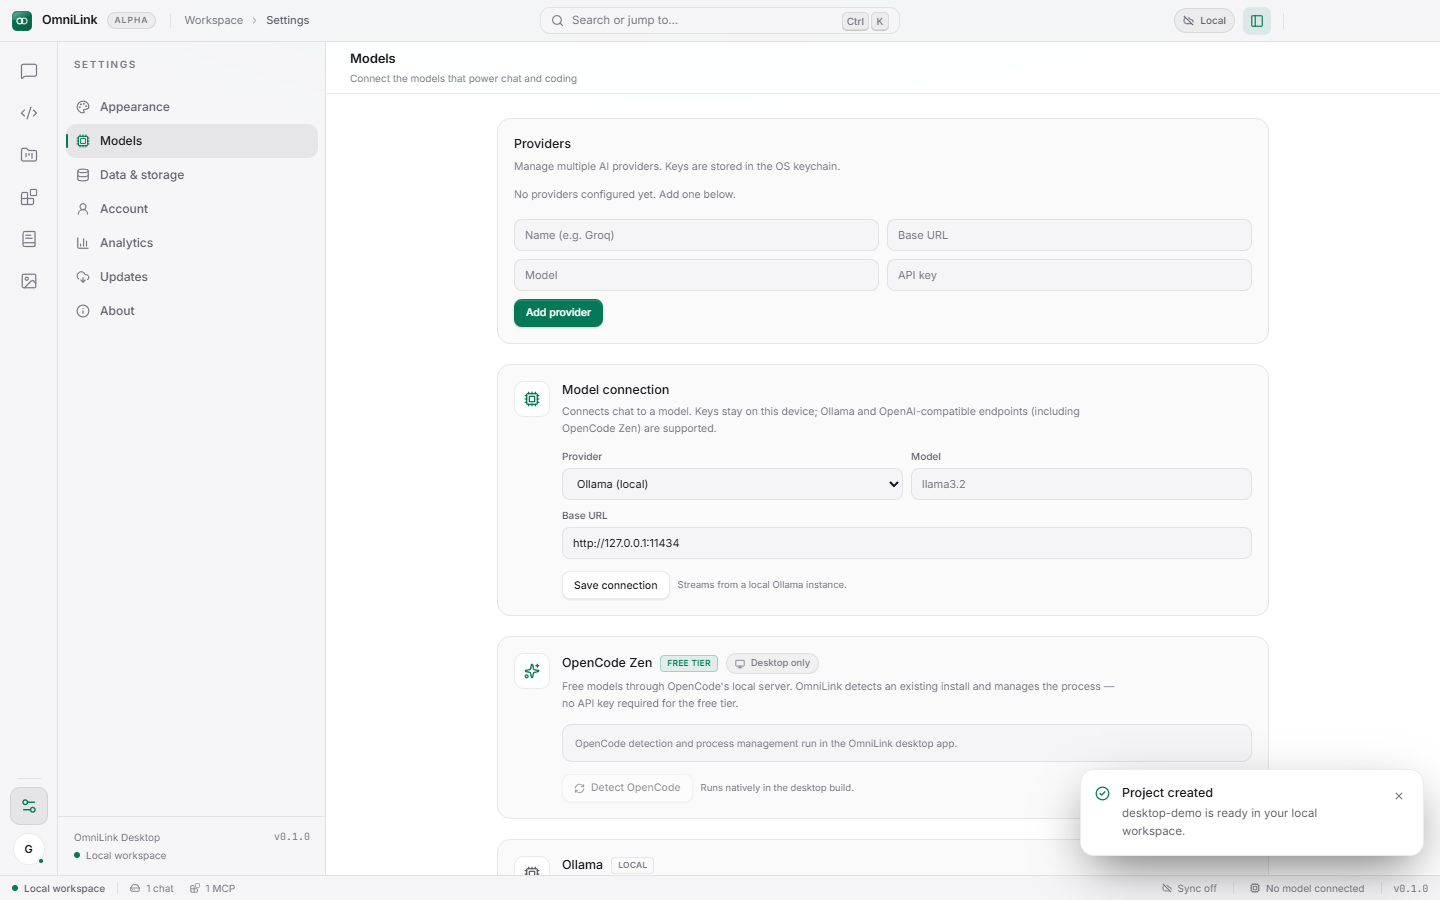
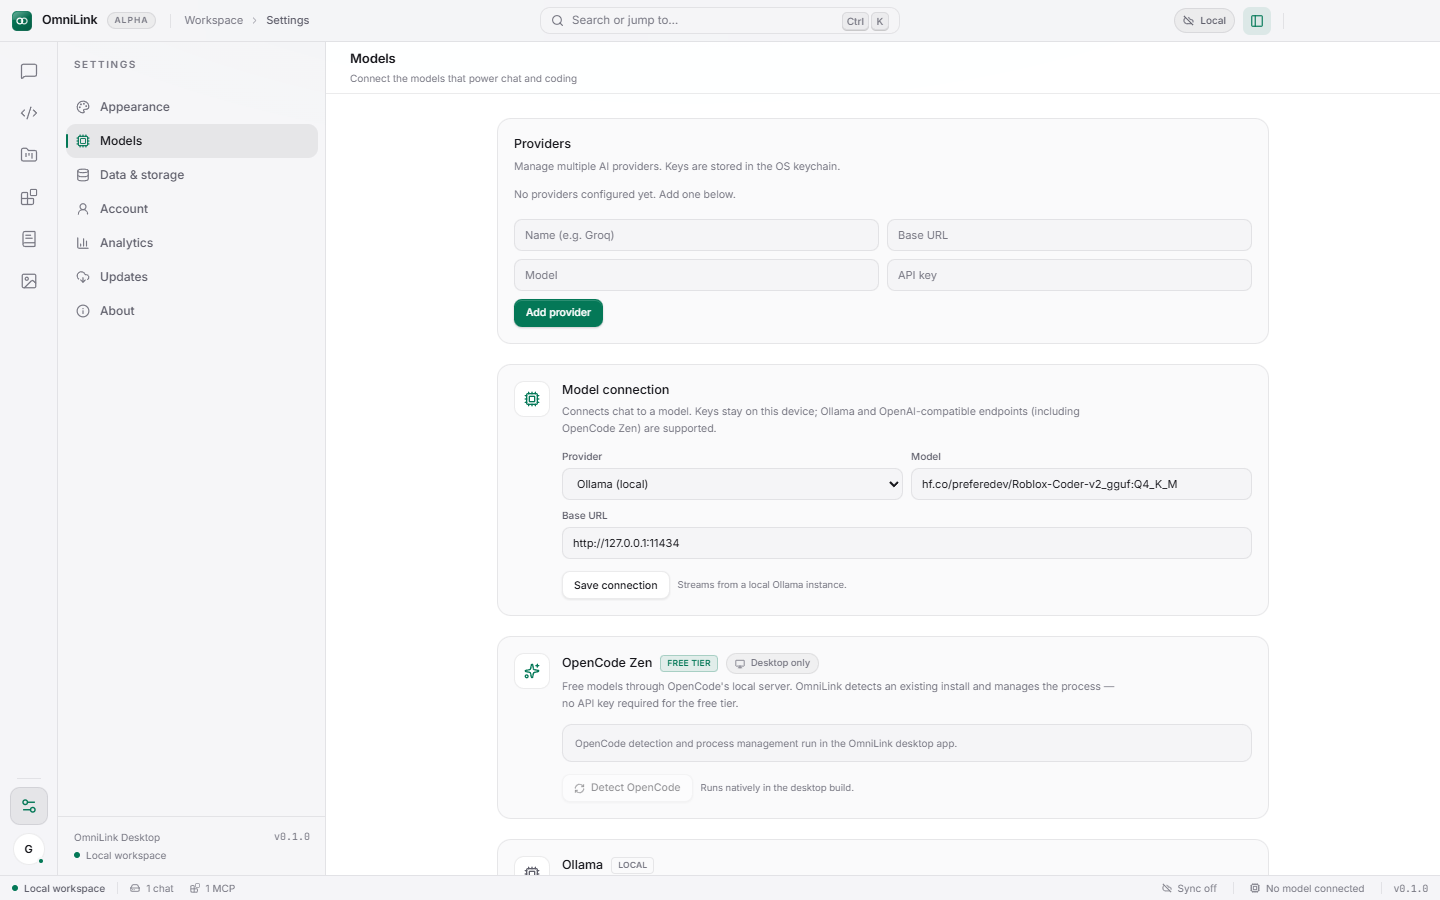
feat(desktop): first-run tutorial with coach marks + welcome

Changed region(s): [[0.75, 0.8711, 1.0, 0.9956], [0.6562, 0.5289, 0.8125, 0.56], [0.7188, 0.9022, 0.75, 0.9333]]

diff --git a/omnilink-desktop/src/components/tutorial/TutorialOverlay.tsx b/omnilink-desktop/src/components/tutorial/TutorialOverlay.tsx
@@ -1,0 +1,322 @@
+import { AnimatePresence, motion } from "framer-motion";
+import { useEffect, useState } from "react";
+
+import { Kbd } from "@/components/ui/Kbd";
+
+interface Step {
+  id: string;
+  title: string;
+  body: string;
+  target?: string; // CSS selector
+  placement?: "top" | "bottom" | "left" | "right" | "center";
+}
+
+const STEPS: Step[] = [
+  {
+    id: "welcome",
+    title: "Welcome to OmniLink",
+    body: "A local-first workspace for chat, coding, MCP tools, and prompts. Let's take a 60-second tour — or skip and explore on your own.",
+    placement: "center",
+  },
+  {
+    id: "rail",
+    title: "Navigate with the rail",
+    body: "The left rail switches between Chat, Coding, MCP, Prompts, and Settings. Tooltips show shortcuts.",
+    target: 'nav[aria-label="Primary navigation"]',
+    placement: "right",
+  },
+  {
+    id: "chat",
+    title: "Chat",
+    body: "Start a conversation, draft messages, and stream replies from your connected model.",
+    target: 'button[aria-label="Chat"]',
+    placement: "right",
+  },
+  {
+    id: "composer",
+    title: "Composer",
+    body: "Type a prompt and press Enter. Shift+Enter adds a new line. Attach context from the coding view.",
+    target: "textarea[data-composer]",
+    placement: "top",
+  },
+  {
+    id: "coding",
+    title: "Coding workspace",
+    body: "Create projects, edit files in Monaco, and preview HTML. The agent panel proposes edits with diffs.",
+    target: 'button[aria-label="Coding"]',
+    placement: "right",
+  },
+  {
+    id: "mcp",
+    title: "MCP servers",
+    body: "Register stdio, SSE, and HTTP MCP servers. Test connections to discover tools.",
+    target: 'button[aria-label="MCP"]',
+    placement: "right",
+  },
+  {
+    id: "prompts",
+    title: "Prompt library",
+    body: "Save reusable instructions and inject them into any chat with one click.",
+    target: 'button[aria-label="Prompts"]',
+    placement: "right",
+  },
+  {
+    id: "palette",
+    title: "Command palette",
+    body: "Press Ctrl+K to jump anywhere, create projects, and change appearance.",
+    target: 'button[aria-label="Search or jump to…"]',
+    placement: "bottom",
+  },
+  {
+    id: "settings",
+    title: "Settings",
+    body: "Themes, accents, models, storage, and account. Everything stays on this device by default.",
+    target: 'button[aria-label="Settings"]',
+    placement: "right",
+  },
+  {
+    id: "done",
+    title: "You're ready",
+    body: "Replay this tour anytime from Settings → About. Press Ctrl+K to get started.",
+    placement: "center",
+  },
+];
+
+export function TutorialOverlay() {
+  const [visible, setVisible] = useState(false);
+  const [stepIndex, setStepIndex] = useState(0);
+  const [rect, setRect] = useState<DOMRect | null>(null);
+
+  useEffect(() => {
+    const done = window.localStorage.getItem("omnilink.tutorialDone");
+    if (!done) {
+      const timer = window.setTimeout(() => setVisible(true), 900);
+      return () => window.clearTimeout(timer);
+    }
+  }, []);
+
+  const step = STEPS[stepIndex];
+
+  useEffect(() => {
+    if (!visible) return;
+    const update = () => {
+      if (step.target) {
+        const el = document.querySelector(step.target);
+        if (el) {
+          setRect(el.getBoundingClientRect());
+        } else {
+          setRect(null);
+        }
+      } else {
+        setRect(null);
+      }
+    };
+    update();
+    const onResize = () => update();
+    window.addEventListener("resize", onResize);
+    window.addEventListener("scroll", onResize, true);
+    return () => {
+      window.removeEventListener("resize", onResize);
+      window.removeEventListener("scroll", onResize, true);
+    };
+  }, [visible, stepIndex, step.target]);
+
+  const finish = () => {
+    window.localStorage.setItem("omnilink.tutorialDone", "1");
+    setVisible(false);
+  };
+
+  const next = () => {
+    if (stepIndex >= STEPS.length - 1) {
+      finish();
+    } else {
+      setStepIndex((i) => i + 1);
+    }
+  };
+
+  const back = () => {
+    if (stepIndex > 0) setStepIndex((i) => i - 1);
+  };
+
+  if (!visible) return null;
+
+  const padding = 8;
+  const spotlightStyle = rect
+    ? {
+        top: rect.top - padding,
+        left: rect.left - padding,
+        width: rect.width + padding * 2,
+        height: rect.height + padding * 2,
+      }
+    : null;
+
+  // Tooltip position
+  const cardW = 340;
+  const cardH = 220;
+  let tooltipStyle: React.CSSProperties = {
+    top: "50%",
+    left: "50%",
+    transform: "translate(-50%, -50%)",
+  };
+  if (rect && step.placement !== "center") {
+    const gap = 16;
+    if (step.placement === "right") {
+      let top = rect.top + rect.height / 2 - cardH / 2;
+      top = Math.max(12, Math.min(window.innerHeight - cardH - 12, top));
+      let left = rect.right + gap;
+      if (left + cardW > window.innerWidth - 12) left = window.innerWidth - cardW - 12;
+      tooltipStyle = { top, left };
+    } else if (step.placement === "left") {
+      let top = rect.top + rect.height / 2 - cardH / 2;
+      top = Math.max(12, Math.min(window.innerHeight - cardH - 12, top));
+      let right = window.innerWidth - rect.left + gap;
+      if (right + cardW > window.innerWidth - 12) right = window.innerWidth - cardW - 12;
+      tooltipStyle = { top, right };
+    } else if (step.placement === "bottom") {
+      let left = rect.left + rect.width / 2 - cardW / 2;
+      left = Math.max(12, Math.min(window.innerWidth - cardW - 12, left));
+      tooltipStyle = { top: rect.bottom + gap, left };
+    } else if (step.placement === "top") {
+      let left = rect.left + rect.width / 2 - cardW / 2;
+      left = Math.max(12, Math.min(window.innerWidth - cardW - 12, left));
+      tooltipStyle = { bottom: window.innerHeight - rect.top + gap, left };
+    }
+  }
+
+  return (
+    <AnimatePresence>
+      <motion.div
+        key="tutorial-overlay"
+        initial={{ opacity: 0 }}
+        animate={{ opacity: 1 }}
+        exit={{ opacity: 0 }}
+        transition={{ duration: 0.3 }}
+        className="fixed inset-0 z-[100]"
+      >
+        {/* Dimmed backdrop with spotlight hole */}
+        {spotlightStyle ? (
+          <>
+            <motion.div
+              className="fixed bg-black/65"
+              style={{ top: 0, left: 0, right: 0, height: spotlightStyle.top }}
+              initial={{ opacity: 0 }}
+              animate={{ opacity: 1 }}
+            />
+            <motion.div
+              className="fixed bg-black/65"
+              style={{
+                top: spotlightStyle.top + spotlightStyle.height,
+                left: 0,
+                right: 0,
+                bottom: 0,
+              }}
+              initial={{ opacity: 0 }}
+              animate={{ opacity: 1 }}
+            />
+            <motion.div
+              className="fixed bg-black/65"
+              style={{
+                top: spotlightStyle.top,
+                left: 0,
+                width: spotlightStyle.left,
+                height: spotlightStyle.height,
+              }}
+              initial={{ opacity: 0 }}
+              animate={{ opacity: 1 }}
+            />
+            <motion.div
+              className="fixed bg-black/65"
+              style={{
+                top: spotlightStyle.top,
+                left: spotlightStyle.left + spotlightStyle.width,
+                right: 0,
+                height: spotlightStyle.height,
+              }}
+              initial={{ opacity: 0 }}
+              animate={{ opacity: 1 }}
+            />
+            <motion.div
+              layoutId="spotlight"
+              className="fixed rounded-xl ring-2 ring-accent shadow-[0_0_0_9999px_rgba(0,0,0,0)]"
+              style={spotlightStyle}
+              transition={{ type: "spring", stiffness: 300, damping: 30 }}
+            >
+              <div className="absolute inset-0 rounded-xl ring-2 ring-accent/70 shadow-[0_0_30px_var(--accent-soft)]" />
+            </motion.div>
+          </>
+        ) : (
+          <motion.div
+            className="absolute inset-0 bg-black/65"
+            initial={{ opacity: 0 }}
+            animate={{ opacity: 1 }}
+          />
+        )}
+
+        {/* Coach mark card */}
+        <motion.div
+          key={step.id}
+          initial={{ opacity: 0, y: 20, scale: 0.94 }}
+          animate={{ opacity: 1, y: 0, scale: 1 }}
+          exit={{ opacity: 0, y: -12, scale: 0.94 }}
+          transition={{ duration: 0.45, ease: [0.22, 1, 0.36, 1] }}
+          className={`fixed z-[101] rounded-2xl border border-line bg-[var(--bg-elevated)] p-6 shadow-2xl ${
+            step.placement === "center"
+              ? "w-[460px] max-w-[92vw]"
+              : "w-[340px] max-w-[90vw]"
+          }`}
+          style={tooltipStyle}
+        >
+          <div className="mb-1 flex items-center gap-2">
+            <span className="text-[9.5px] font-semibold uppercase tracking-[0.16em] text-accent-text">
+              Step {stepIndex + 1} of {STEPS.length}
+            </span>
+          </div>
+          {step.id === "welcome" && (
+            <div className="mb-4 flex h-14 w-14 items-center justify-center rounded-2xl border border-line bg-[var(--bg-base)] text-accent-text shadow-lg">
+              <span className="text-[24px] font-bold">∞</span>
+            </div>
+          )}
+          <h3 className="text-[15px] font-semibold tracking-[-0.015em] text-fg">
+            {step.title}
+          </h3>
+          <p className="mt-2 text-[12px] leading-relaxed text-muted">
+            {step.body}
+          </p>
+          {step.id === "palette" && (
+            <div className="mt-3 flex items-center gap-1.5">
+              <Kbd>Ctrl</Kbd>
+              <Kbd>K</Kbd>
+            </div>
+          )}
+          <div className="mt-4 flex items-center justify-between">
+            <button
+              type="button"
+              onClick={finish}
+              className="text-[10.5px] text-subtle transition-colors hover:text-fg"
+            >
+              Skip tour
+            </button>
+            <div className="flex items-center gap-2">
+              {stepIndex > 0 && (
+                <button
+                  type="button"
+                  onClick={back}
+                  className="btn btn-ghost h-7 text-[10.5px]"
+                >
+                  Back
+                </button>
+              )}
+              <button
+                type="button"
+                onClick={next}
+                className="btn btn-primary h-7 text-[10.5px]"
+              >
+                {stepIndex >= STEPS.length - 1 ? "Finish" : "Next"}
+              </button>
+            </div>
+          </div>
+        </motion.div>
+      </motion.div>
+    </AnimatePresence>
+  );
+}

diff --git a/omnilink-desktop/src/App.tsx b/omnilink-desktop/src/App.tsx
@@ -8,6 +8,7 @@ import { Rail } from "@/components/shell/Rail";
 import { StatusBar } from "@/components/shell/StatusBar";
 import { TitleBar } from "@/components/shell/TitleBar";
 import { Toaster } from "@/components/ui/Toaster";
+import { TutorialOverlay } from "@/components/tutorial/TutorialOverlay";
 import { IS_TAURI, getSecret, showMainWindow } from "@/lib/tauri";
 import { useResolvedTheme } from "@/lib/theme";
 import { useApp } from "@/store/app";
@@ -62,6 +63,24 @@ export default function App() {
       } else {
         const value = window.localStorage.getItem("omnilink.apiKey");
         if (!cancelled && value) useApp.getState().setModelApiKey(value);
+      }
+      // Auto-detect an Ollama model if none is configured.
+      const state = useApp.getState();
+      if (state.modelProvider === "ollama" && !state.modelName.trim()) {
+        try {
+          const res = await fetch(
+            `${state.modelBaseUrl.replace(/\/+$/, "")}/api/tags`,
+          );
+          if (res.ok) {
+            const data = (await res.json()) as { models?: { name?: string }[] };
+            const first = data.models?.[0]?.name;
+            if (!cancelled && first) {
+              useApp.getState().setModelName(first);
+            }
+          }
+        } catch {
+          // Ollama not running; leave empty.
+        }
       }
     };
     void load();
@@ -163,6 +182,7 @@ export default function App() {
         <CommandPalette />
         <ModalHost />
         <Toaster />
+        <TutorialOverlay />
       </div>
     </MotionConfig>
   );

diff --git a/omnilink-desktop/src/views/SettingsView.tsx b/omnilink-desktop/src/views/SettingsView.tsx
@@ -1376,6 +1376,18 @@ function AboutSettings() {
         <Row title="Version" description="Desktop build">
           <span className="font-mono text-[10.5px] text-muted">0.1.0</span>
         </Row>
+        <Row title="Replay tutorial" description="Walk through the app again">
+          <button
+            type="button"
+            onClick={() => {
+              window.localStorage.removeItem("omnilink.tutorialDone");
+              window.location.reload();
+            }}
+            className="btn btn-ghost h-7 text-[10.5px]"
+          >
+            Replay
+          </button>
+        </Row>
         <Row title="Identifier" description="Application bundle identifier">
           <span className="font-mono text-[10.5px] text-muted">
             com.omnilink.desktop
